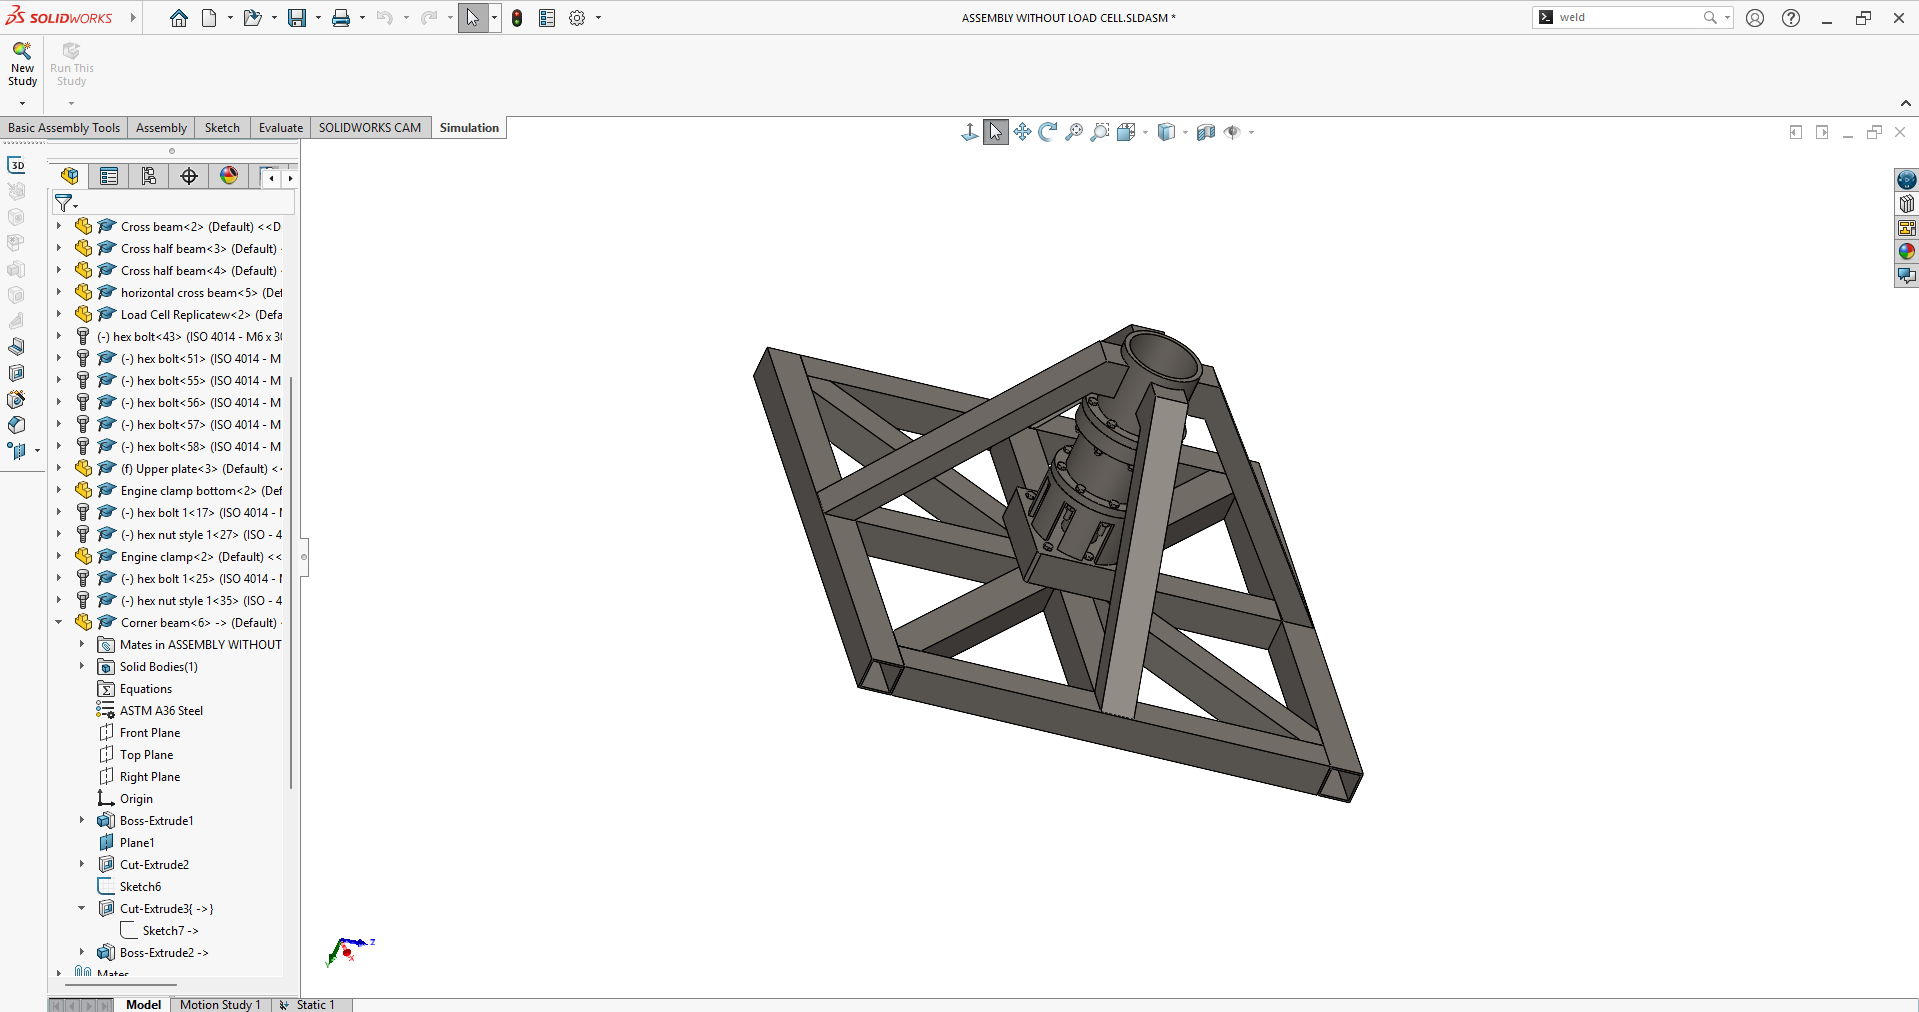
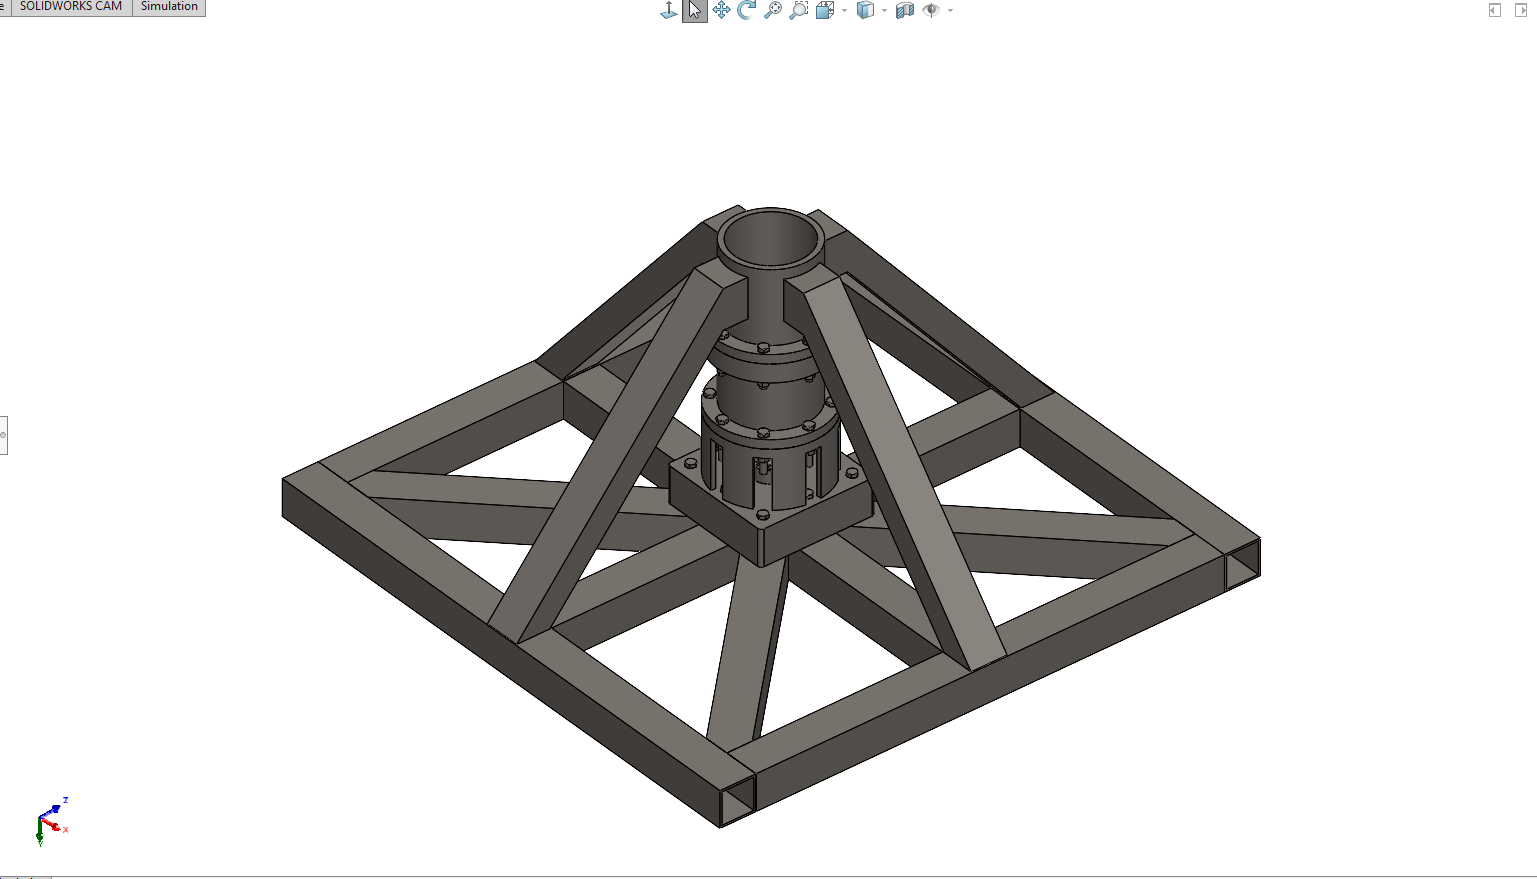
style: move rocket test stand card to top and update image to final FEA

diff --git a/src/pages/ProjectsPage.jsx b/src/pages/ProjectsPage.jsx
@@ -17,6 +17,62 @@ export default function ProjectsPage() {
       {/* Projects Container Grid */}
       <div className="grid grid-cols-1 gap-8">
         
+        {/* Project Card: Rocket Engine Test Stand Design & FEA */}
+        <div className="bg-brand-bg-card border border-brand-border rounded-none overflow-hidden grid grid-cols-1 md:grid-cols-3">
+          
+          {/* Project Image Container */}
+          <div className="md:col-span-1 h-56 md:h-auto bg-brand-bg-dark border-r border-brand-border relative flex items-center justify-center overflow-hidden p-2">
+            <img
+              src="assets/images/projects/test-stand/test-stand-final-fea.png"
+              alt="Rocket Engine Test Stand Final FEA Simulation"
+              className="w-full h-full object-cover"
+            />
+          </div>
+
+          {/* Project Details */}
+          <div className="md:col-span-2 p-6 md:p-8 flex flex-col justify-between gap-6">
+            <div>
+              <h3 className="text-md font-bold font-mono text-brand-text-primary mb-3 uppercase tracking-wider">
+                [PROJECT_01] 15 kN Rocket Engine Test Stand
+              </h3>
+              
+              <p className="text-brand-text-secondary text-xs md:text-sm leading-relaxed mb-6 font-sans">
+                Conceptual design and iterative structural finite element analysis (FEA) of a 15 kN rocket engine test stand under a 20 kN conservative design load.
+              </p>
+
+              {/* Showcase Design Skills */}
+              <div className="flex flex-col gap-2 font-mono">
+                <span className="text-xs font-bold uppercase tracking-wider text-brand-accent-primary">
+                  // Specifications
+                </span>
+                <div className="flex flex-wrap gap-2">
+                  {["SolidWorks FEA", "Weldments", "Structural Simulation", "Static Analysis"].map((skill, idx) => (
+                    <span
+                      key={idx}
+                      className="text-xs px-2 py-1 bg-brand-bg-dark text-brand-text-secondary border border-brand-border font-mono"
+                    >
+                      {skill.toLowerCase()}
+                    </span>
+                  ))}
+                </div>
+              </div>
+            </div>
+
+            {/* Link Button */}
+            <div>
+              <Link
+                to="/projects/test-stand"
+                className="inline-flex items-center gap-1.5 bg-brand-accent-primary hover:bg-brand-accent-primary/80 text-brand-bg-dark font-mono font-bold text-xs uppercase tracking-widest px-5 py-2.5 rounded-none transition-all duration-200"
+              >
+                view_detailed_steps
+                <svg className="w-4 h-4 fill-current" viewBox="0 0 24 24">
+                  <path d="M5 13h11.86l-5.43 5.43 1.42 1.42L21.14 12l-8.29-8.29-1.42 1.42L16.86 11H5v2z" />
+                </svg>
+              </Link>
+            </div>
+          </div>
+        </div>
+
         {/* Project Card: Planetary Gear (SolidWorks) */}
         <div className="bg-brand-bg-card border border-brand-border rounded-none overflow-hidden grid grid-cols-1 md:grid-cols-3">
           
@@ -33,7 +89,7 @@ export default function ProjectsPage() {
           <div className="md:col-span-2 p-6 md:p-8 flex flex-col justify-between gap-6">
             <div>
               <h3 className="text-md font-bold font-mono text-brand-text-primary mb-3 uppercase tracking-wider">
-                [PROJECT_01] Planetary Gear Design
+                [PROJECT_02] Planetary Gear Design
               </h3>
               
               <p className="text-brand-text-secondary text-xs md:text-sm leading-relaxed mb-6 font-sans">
@@ -89,7 +145,7 @@ export default function ProjectsPage() {
           <div className="md:col-span-2 p-6 md:p-8 flex flex-col justify-between gap-6">
             <div>
               <h3 className="text-md font-bold font-mono text-brand-text-primary mb-3 uppercase tracking-wider">
-                [PROJECT_02] Robotic Arm
+                [PROJECT_03] Robotic Arm
               </h3>
               
               <p className="text-brand-text-secondary text-xs md:text-sm leading-relaxed mb-6 font-sans">
@@ -145,7 +201,7 @@ export default function ProjectsPage() {
           <div className="md:col-span-2 p-6 md:p-8 flex flex-col justify-between gap-6">
             <div>
               <h3 className="text-md font-bold font-mono text-brand-text-primary mb-3 uppercase tracking-wider">
-                [PROJECT_03] L1 Rocket Build
+                [PROJECT_04] L1 Rocket Build
               </h3>
               
               <p className="text-brand-text-secondary text-xs md:text-sm leading-relaxed mb-6 font-sans">
@@ -201,7 +257,7 @@ export default function ProjectsPage() {
           <div className="md:col-span-2 p-6 md:p-8 flex flex-col justify-between gap-6">
             <div>
               <h3 className="text-md font-bold font-mono text-brand-text-primary mb-3 uppercase tracking-wider">
-                [PROJECT_04] Hull Design & Propulsion
+                [PROJECT_05] Hull Design & Propulsion
               </h3>
               
               <p className="text-brand-text-secondary text-xs md:text-sm leading-relaxed mb-6 font-sans">
@@ -241,64 +297,7 @@ export default function ProjectsPage() {
           </div>
         </div>
 
-        {/* Project Card: Rocket Engine Test Stand Design & FEA */}
-        <div className="bg-brand-bg-card border border-brand-border rounded-none overflow-hidden grid grid-cols-1 md:grid-cols-3">
-          
-          {/* Project Image Container */}
-          <div className="md:col-span-1 h-56 md:h-auto bg-brand-bg-dark border-r border-brand-border relative flex items-center justify-center overflow-hidden p-2">
-            <img
-              src="assets/images/projects/test-stand/test-stand-final-assembly.png"
-              alt="Rocket Engine Test Stand Final Assembly"
-              className="w-full h-full object-cover"
-            />
-          </div>
-
-          {/* Project Details */}
-          <div className="md:col-span-2 p-6 md:p-8 flex flex-col justify-between gap-6">
-            <div>
-              <h3 className="text-md font-bold font-mono text-brand-text-primary mb-3 uppercase tracking-wider">
-                [PROJECT_05] 15 kN Rocket Engine Test Stand
-              </h3>
-              
-              <p className="text-brand-text-secondary text-xs md:text-sm leading-relaxed mb-6 font-sans">
-                Conceptual design and iterative structural finite element analysis (FEA) of a 15 kN rocket engine test stand under a 20 kN conservative design load.
-              </p>
-
-              {/* Showcase Design Skills */}
-              <div className="flex flex-col gap-2 font-mono">
-                <span className="text-xs font-bold uppercase tracking-wider text-brand-accent-primary">
-                  // Specifications
-                </span>
-                <div className="flex flex-wrap gap-2">
-                  {["SolidWorks FEA", "Weldments", "Structural Simulation", "Static Analysis"].map((skill, idx) => (
-                    <span
-                      key={idx}
-                      className="text-xs px-2 py-1 bg-brand-bg-dark text-brand-text-secondary border border-brand-border font-mono"
-                    >
-                      {skill.toLowerCase()}
-                    </span>
-                  ))}
-                </div>
-              </div>
-            </div>
-
-            {/* Link Button */}
-            <div>
-              <Link
-                to="/projects/test-stand"
-                className="inline-flex items-center gap-1.5 bg-brand-accent-primary hover:bg-brand-accent-primary/80 text-brand-bg-dark font-mono font-bold text-xs uppercase tracking-widest px-5 py-2.5 rounded-none transition-all duration-200"
-              >
-                view_detailed_steps
-                <svg className="w-4 h-4 fill-current" viewBox="0 0 24 24">
-                  <path d="M5 13h11.86l-5.43 5.43 1.42 1.42L21.14 12l-8.29-8.29-1.42 1.42L16.86 11H5v2z" />
-                </svg>
-              </Link>
-            </div>
-          </div>
-        </div>
-
       </div>
     </div>
   );
 }
-